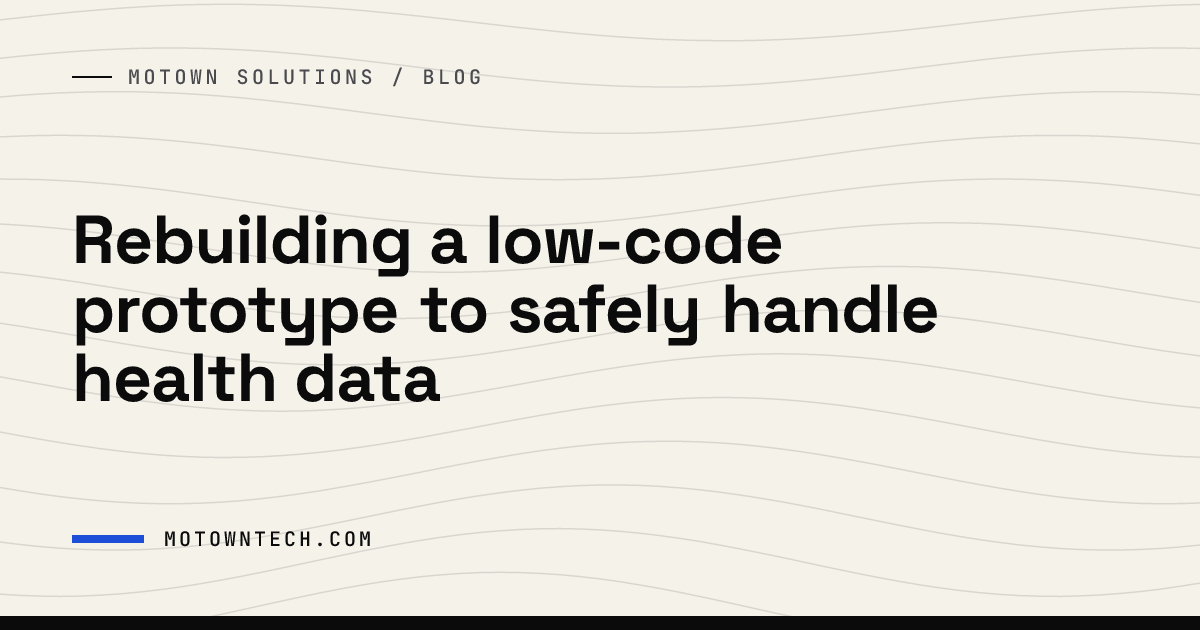
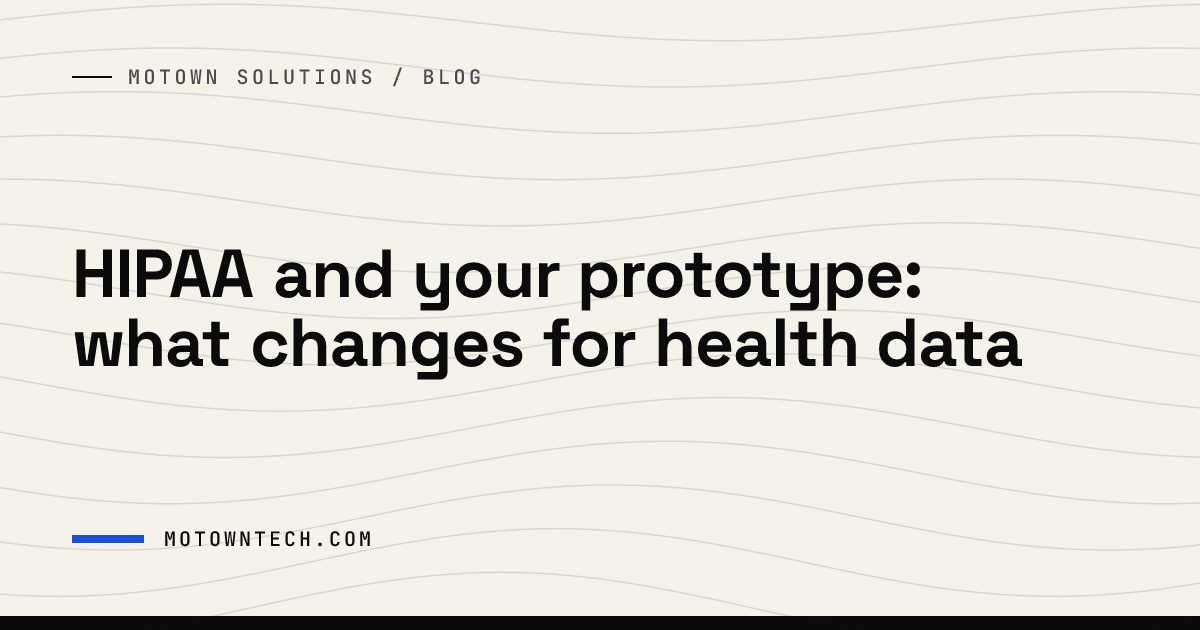
copy(blog): rewrite the prototype-to-production-health-data post around the reader's problem

Changed region(s): [[0.0617, 0.3317, 0.8633, 0.6333]]

diff --git a/src/content/blog/prototype-to-production-health-data.md b/src/content/blog/prototype-to-production-health-data.md
@@ -1,53 +1,61 @@
 ---
-title: "Rebuilding a low-code prototype to safely handle health data"
+title: "HIPAA and your prototype: what changes for health data"
 image: ../../assets/blog/prototype-to-production-health-data-image.jpg
 imageAlt: "A paper model house next to the same house cast in concrete"
 cover: ../../assets/blog/prototype-to-production-health-data.png
-description: "A senior-care operator's low-code prototype had the right workflow. Here is what it took to rebuild it as an app that can safely hold resident records."
+description: "A low-code or AI-built prototype can get a care workflow right and still be unsafe for patient records. Here is what has to change before it holds them."
 pubDate: 2026-08-19
 relatedPages: ["/case-studies/senior-care-concierge", "/prototype-to-production"]
 category: case-stories
 ---
 
-We rebuilt a senior-care operator's low-code prototype as an app that can hold protected health information. It kept the screens staff already knew and added invite-only accounts, per-facility data separation, encrypted credentials and an audit log.
+If your low-code or AI-built prototype is about to hold patient or resident records, the screens are probably the part you can keep. The work is underneath them: who can sign in, which records each person can reach, and whether anyone can tell afterward who saw what. Health data raises the bar on all of it, because a mistake there is a disclosure.
 
-The operator runs several facilities, and its concierge team used the prototype for resident and family concerns, admissions, discharges and daily tasks. The prototype matched how the team worked a call, but it couldn't hold a real resident's record. There were no user accounts, no permissions and no audit trail, and nothing kept one facility's data away from another's. A prototype is allowed to skip all of that, which is why it can be built quickly. Those skipped parts are what a regulated business needs before it can use the tool for real.
+## Keep the workflow, rebuild what holds the data
 
-## Keep what works, then add what was skipped
+A prototype your staff already use has answered the hardest product questions: which screens exist, what goes on them and how a person actually works a case. Starting over "properly" throws that away.
 
-The prototype had already answered the hard product questions: which screens exist, what data they hold and how the team moves through a call. We wrote the specification in two halves. The first half reproduced that workflow faithfully. The second added everything a demo can leave out.
+A multi-facility senior-care operator we worked with ran its concierge team on a low-code prototype. The workflow was right. But the "submitted by" field was a dropdown of six hard-coded names, because the demo had no users, and every facility's records were visible to everyone. We wrote the rebuild in two halves: reproduce the workflow faithfully, then add what the demo had skipped. Staff who knew the prototype needed no retraining.
 
-Because the screens and the flow stayed the same, staff who had used the prototype didn't need retraining.
+Our [general checklist of what prototypes skip](/blog/what-your-prototype-skipped) covers sign-in, data and deploys. What follows is what health data adds.
 
-## What a prototype skips that health data needs
+## Put the access boundary below the screens
 
-Most of this work is invisible to the people using the app. Here is what moved from prototype to application:
+The obvious way to restrict records is screen by screen, with each page filtering to the user's facility. That works until someone adds a page on a deadline and forgets the filter.
 
-- The "submitted by" field in the prototype was a dropdown of six hard-coded names, because the demo had no users. The application has invite-only accounts with two-factor sign-in and passkeys, and no administrator ever handles anyone's password.
-- In the prototype everyone saw everything. Now every facility's records are separated at the database query level. Internal staff see across all facilities, a facility user sees only their own, and an account linked to no facility sees nothing at all.
-- Facility logins and Wi-Fi keys used to sit in ordinary fields. They are now encrypted, hidden by default, visible only to an owner or admin, and every time someone reveals one it is logged.
-- There was no history before. Now an append-only audit log keeps a timeline on every record and for every user.
-- Reports were something you read on screen. They now export to Excel, CSV and PDF, can be saved as views, and can be emailed on a schedule.
-- The application runs in the operator's own cloud account, under their own compliance agreement, instead of on a low-code platform.
+Put the rule where every query passes through it instead. In the senior-care rebuild, facility separation sits underneath every database query. Internal staff see across all facilities, a facility user sees only their own, and an account linked to no facility sees nothing at all. That last case matters. When something is misconfigured, the safe failure is an empty screen.
 
-## Health data shaped the design from day one
+It also helps to decide which screens should carry protected information at all. Lobby wallboards in that project show aggregate figures only, never a resident's name, so they can run on a simple read-only link.
 
-Resident information is protected health information, and we treated it that way from the first decision. That choice is why facility separation lives underneath every query instead of on individual screens, where a developer on a deadline could forget it. It is also why credentials hide themselves unless someone deliberately reveals them.
+## Make sensitive fields something people reveal on purpose
 
-Automatic logoff is a good example of how a regulation becomes a design decision. HIPAA requires sessions to end after inactivity but doesn't say how long. The application uses three layers: an idle timeout, a hard cap on session length, and a countdown warning about a minute before sign-out. When it does sign someone out, it explains why and offers a link back to where they were.
+Prototypes tend to keep logins, keys and notes in ordinary text fields. In the rebuild, facility logins and Wi-Fi keys are encrypted, hidden by default, visible only to an owner or admin, and every reveal is logged. If showing a secret takes a deliberate action, nobody leaks one by accident.
 
-Once the foundation was in place, the project went further than the original brief. Facilities got their own portal with shared ticket threads, and the reporting was rebuilt with scheduled delivery. Lobby wallboards show aggregate figures only, never a resident's name.
+The same goes for history. A prototype usually records nothing about who changed a record. Health data needs an append-only audit log, with a timeline on each record and each user, so you can answer "who looked at this?" with a fact.
 
-## Testing it before anyone logged in
+## Turn vague rules into specific decisions
 
-Before launch we audited the system as if someone else had built it. Two reviews ran against a full working dataset of 33 facilities and several thousand tickets. One looked for what was broken, and the other looked for what had been promised and never built.
+HIPAA often says what to do without saying how. Automatic logoff is a good example: sessions have to end after inactivity, but the rule names no duration. Someone has to pick the numbers and the behavior.
 
-They turned up 48 findings. One of them mattered a lot: external facility accounts were showing up in lists meant for internal staff, which could eventually have sent a resident's name to someone outside the organization. Another was a report whose default date range took 456 seconds and six gigabytes of memory to produce. After a row limit it took 21 seconds and a tenth of the memory.
+The senior-care app uses three layers: an idle timeout, a hard cap on session length, and a countdown warning about a minute before sign-out. When it signs someone out, it says why and offers a link back to where they were. Write down each choice like this and the reason for it. Your privacy officer will ask.
 
-Eight findings were fixed the same night, and five of those were bugs introduced only hours earlier. That is why we audit before launch. We also pushed back where a finding was wrong. Two were rejected with reasons, and two were deliberately deferred with the reason written into the code.
+## Know where the data lives and who has signed for it
 
-## If you have a prototype that works
+Many low-code platforms are fine for a demo and wrong for protected health information. Before you build, decide where the production app will run and confirm that every vendor touching the data will sign a business associate agreement. The senior-care operator's app runs in its own cloud account, under its own compliance agreement.
 
-A working prototype is a good place to start. It means the workflow has already been tested by the people who use it. The question is what has to change before it can hold regulated data, real users and other people's information, and what can stay as it is. We keep a [general checklist of what AI-built and no-code prototypes skip](/blog/what-your-prototype-skipped).
+## Audit it as if someone else built it
+
+Test with realistic data before anyone signs in. Two reviews of that rebuild, run against a working dataset of 33 facilities and several thousand tickets, turned up 48 findings. The one that mattered most was external facility accounts appearing in lists meant for internal staff, which could eventually have sent a resident's name outside the organization.
+
+## Before your prototype holds health data
+
+- Can every user be traced to a real, invited account with two-factor sign-in?
+- Is access to records enforced in one place, and does a misconfigured account see nothing?
+- Are secrets and sensitive fields hidden until someone deliberately reveals them, with the reveal logged?
+- Can you show who viewed or changed any record, and when?
+- Have you written down your session timeouts and why you chose them?
+- Does every vendor holding the data have a signed agreement?
+
+If several answers are no, the prototype still has value. It just needs a different foundation before it can hold anyone's records.
 
 The [senior care case study](/case-studies/senior-care-concierge) has the full technical detail. If you have a prototype of your own, read how we approach [taking a prototype to production](/prototype-to-production), or [send us what you've built](/contact).

diff --git a/linkedin/prototype-to-production-health-data/post.md b/linkedin/prototype-to-production-health-data/post.md
@@ -2,30 +2,30 @@
 
 ## Post 1: native text
 
-A senior-care operator ran its concierge team on a low-code prototype. The workflow was right. It still couldn't hold a real resident's record.
+If your low-code or AI-built prototype is about to hold patient or resident records, keep the screens. The work is underneath them.
 
-The prototype had no user accounts, no permissions and no audit trail, and nothing kept one facility's data away from another's. That's normal for a prototype. Skipping those parts is how it got built quickly.
+A senior-care operator we worked with had a prototype whose workflow was right. But the "submitted by" field was a dropdown of six hard-coded names, and every facility could see every other facility's records.
 
-We rebuilt it in two halves. First we reproduced the workflow the team already knew, screen for screen, so nobody needed retraining. Then we added what the demo had left out:
+Here's what health data adds before a prototype like that can go live:
 
-• Invite-only accounts with two-factor sign-in and passkeys, replacing a dropdown of six hard-coded names.
-• Each facility's records separated underneath every database query.
-• Facility logins and Wi-Fi keys encrypted and hidden, with every reveal logged.
-• An append-only audit log on every record.
+• Enforce access in one place, below every screen. A page someone adds on a deadline can't forget a filter it never had to apply.
+• Make a misconfigured account see nothing.
+• Hide secrets and sensitive fields until someone deliberately reveals them, and log the reveal.
+• Keep an append-only audit log, so "who looked at this?" has an answer.
+• Pick your session timeouts and write down why. HIPAA requires automatic logoff but names no duration.
+• Confirm every vendor holding the data will sign a business associate agreement.
 
-Resident data is protected health information, so that shaped the design from the first decision.
+Then test with realistic data before anyone signs in. In that rebuild, a review turned up external accounts appearing in lists meant for internal staff. Left alone, that could eventually have sent a resident's name outside the organization. It was fixed before launch.
 
-Before launch we reviewed the system as if someone else had built it. Two passes over a dataset of 33 facilities found 48 issues, including external accounts showing up in lists meant for internal staff. Eight were fixed that night.
-
-If you have a prototype that works, the workflow is the hard part and it's already done. What's left is making it safe to hold real data.
+A working prototype still has real value. The workflow is the hard part, and it's already done.
 
 Full write-up in the comments.
 
 ## Post 2: carousel (~/Documents/Motown Carousels/prototype-to-production-health-data.pdf)
 
-Document title: What a prototype skips before it can hold health data
+Document title: What your prototype needs before it holds health data
 
-A low-code prototype got a senior-care team's workflow right, but it had no users, no permissions and no audit trail. Here's what changed when we rebuilt it for real resident records. Full write-up in the comments.
+A low-code or AI-built prototype can get the workflow right and still be unsafe for patient records. Here's what has to change underneath the screens first. Full write-up in the comments.
 
 ## First comment (both posts)
 
